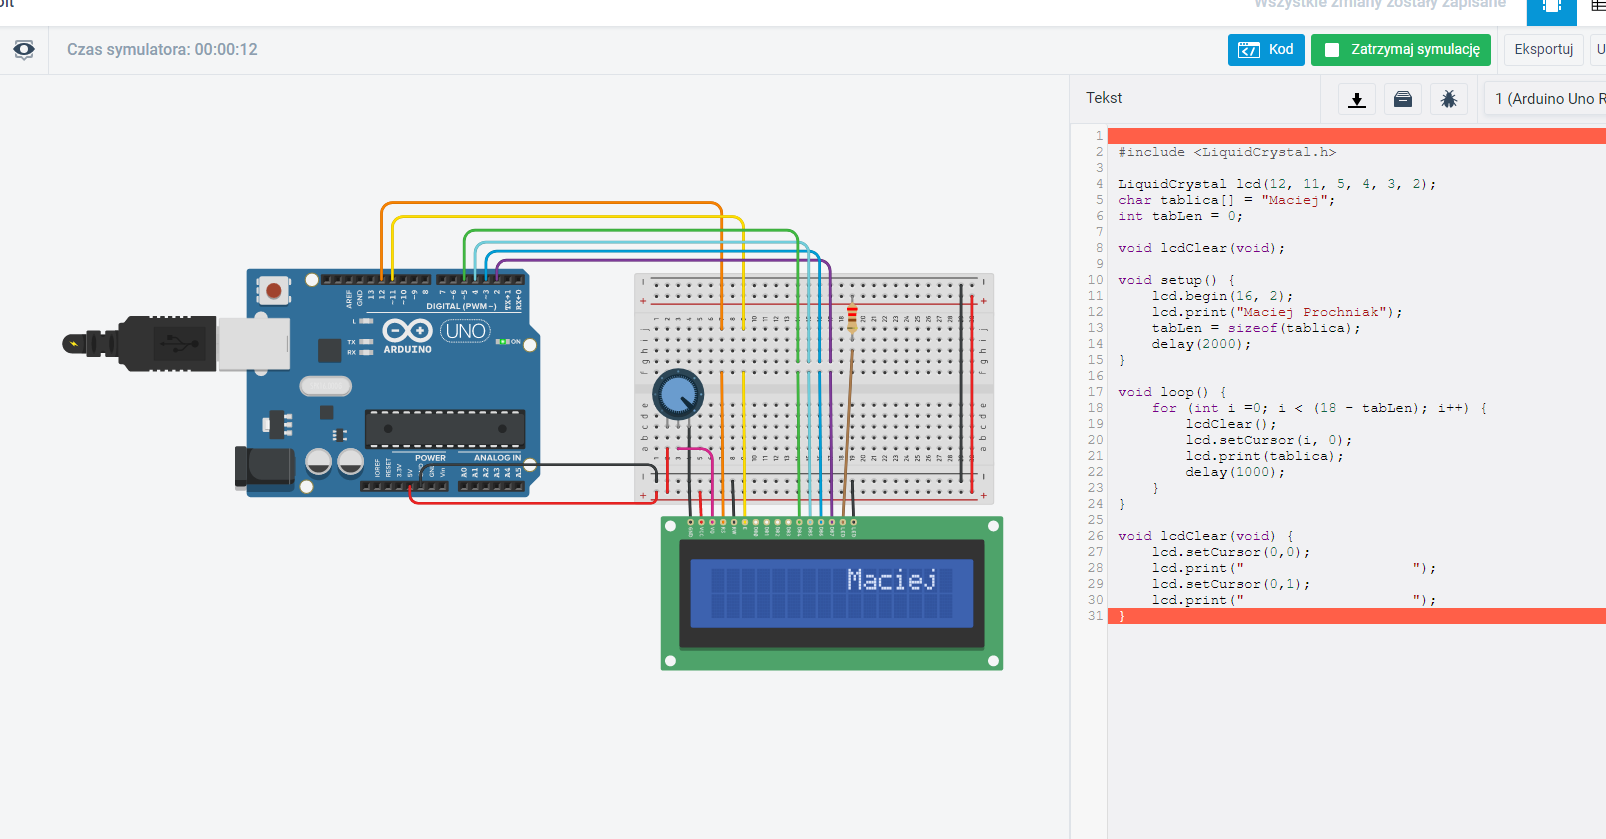
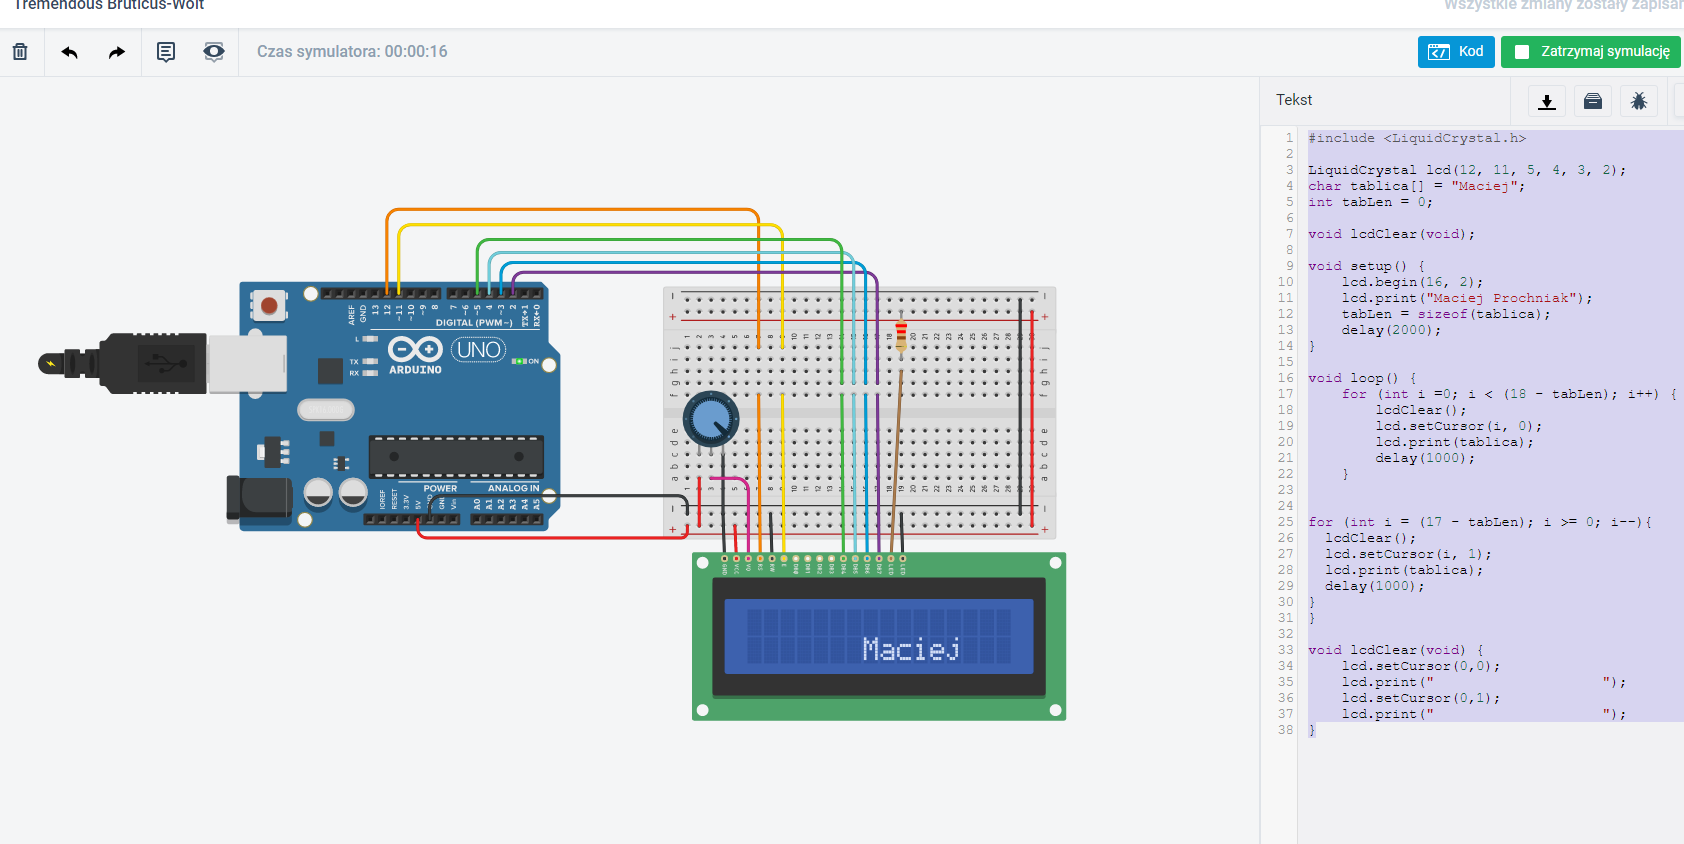
Wykonano zadanie 3.3.2 – tekst pływający

diff --git a/Zadanie-3-3/src/main.cpp b/Zadanie-3-3/src/main.cpp
@@ -1,4 +1,3 @@
-#include <Arduino.h>
 #include <LiquidCrystal.h>
 
 LiquidCrystal lcd(12, 11, 5, 4, 3, 2);
@@ -21,6 +20,14 @@ void loop() {
         lcd.print(tablica);
         delay(1000);
     }
+
+
+for (int i = (17 - tabLen); i >= 0; i--){
+  lcdClear();
+  lcd.setCursor(i, 1);
+  lcd.print(tablica);
+  delay(1000);
+}
 }
 
 void lcdClear(void) {
